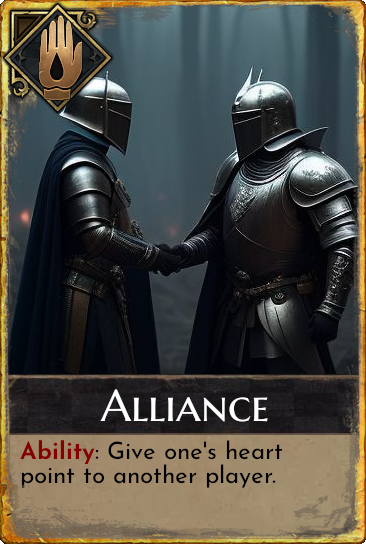
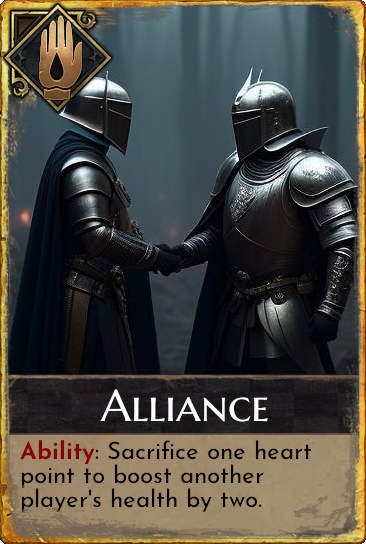
Update text, replaced placeholder images with actual ones

Changed region(s): [[0.2705, 0.8125, 0.8415, 0.9375], [0.0601, 0.9062, 0.2705, 0.9375]]

diff --git a/src/pages/Home.tsx b/src/pages/Home.tsx
@@ -82,17 +82,17 @@ function Home() {
           <div className="d-flex flex-column align-items-center justify-content-center flex-grow-1 container">
           <div className="row justify-content-center">
             <div className="col-lg-3 text-center me-3 my-5">
-              <img src="https://t3.ftcdn.net/jpg/00/32/96/02/360_F_32960287_AMQe7m39khZEt8U5oaI0htudEmSA5qA5.jpg" alt="Pillar Image" width={140} height={140} className="rounded-circle mb-3"/>
+              <img src="./src/assets/images/pillar1.jpg" alt="Pillar Image" width={140} height={140} className="rounded-circle mb-3"/>
               <h2 className="fw-normal mb-3">What</h2>
               <p>{text.pillars.what}</p>
             </div>
             <div className="col-lg-3 text-center me-3 my-5">
-              <img src="https://t3.ftcdn.net/jpg/00/32/96/02/360_F_32960287_AMQe7m39khZEt8U5oaI0htudEmSA5qA5.jpg" alt="Pillar Image" width={140} height={140} className="rounded-circle mb-3"/>
+              <img src="./src/assets/images/pillar2.jpg" alt="Pillar Image" width={140} height={140} className="rounded-circle mb-3"/>
               <h2 className="fw-normal mb-3">How</h2>
               <p>{text.pillars.how}</p>
             </div>
             <div className="col-lg-3 text-center my-5">
-              <img src="https://t3.ftcdn.net/jpg/00/32/96/02/360_F_32960287_AMQe7m39khZEt8U5oaI0htudEmSA5qA5.jpg" alt="Pillar Image" width={140} height={140} className="rounded-circle mb-3"/>
+              <img src="./src/assets/images/pillar3.jpg" alt="Pillar Image" width={140} height={140} className="rounded-circle mb-3"/>
               <h2 className="fw-normal mb-3">Why</h2>
               <p>{text.pillars.why}</p>
             </div>

diff --git a/src/pages/Gallery.tsx b/src/pages/Gallery.tsx
@@ -26,26 +26,6 @@ function Gallery() {
                   <img src={gameboard} className="img-fluid" alt="..."/>
                   <h1>Gameboard</h1>
                 </div>
-                <div className="image-container">
-                  <img src="https://upload.wikimedia.org/wikipedia/commons/5/58/Tokyo_Tower_2023.jpg" className="img-fluid" alt="..."/>
-                  <h1>Text</h1>
-                </div>
-                <div className="image-container">
-                  <img src="https://images.hdqwalls.com/download/the-witcher-3-wild-hunt-4-1024x768.jpg" className="img-fluid" alt="..."/>
-                  <h1>Text</h1>
-                </div>
-                <div className="image-container">
-                  <img src="https://images.hdqwalls.com/download/the-witcher-3-wild-hunt-4-1024x768.jpg" className="img-fluid" alt="..."/>
-                  <h1>Text</h1>
-                </div>
-                <div className="image-container">
-                  <img src="https://images.hdqwalls.com/download/the-witcher-3-wild-hunt-4-1024x768.jpg" className="img-fluid" alt="..."/>
-                  <h1>Text</h1>
-                </div>
-                <div className="image-container">
-                  <img src="https://images.hdqwalls.com/download/the-witcher-3-wild-hunt-4-1024x768.jpg" className="img-fluid" alt="..."/>
-                  <h1>Text</h1>
-                </div>
             </Masonry>
           </div>
         </div>

diff --git a/src/style/index.css b/src/style/index.css
@@ -5,7 +5,7 @@ body {
   font-family: "Josefin Sans", sans-serif !important;
 }
 h1, h2, h3, h4, h5, h6, .navbar {
-  font-family: "Marcellus SC",serif;
+  font-family: "Marcellus SC", serif;
 }
 
 /* General */
@@ -19,7 +19,7 @@ html {
   scroll-padding-top: var(--navbar-height);
 }
 #hero {
-  background: linear-gradient(rgba(0, 0, 0, var(--hero-alpha)), rgba(0, 0, 0, var(--hero-alpha))), url('https://images6.alphacoders.com/451/451408.jpg');
+  background: linear-gradient(rgba(0, 0, 0, var(--hero-alpha)), rgba(0, 0, 0, var(--hero-alpha))), url('./src/assets/images/hero.jpg');
   background-repeat: no-repeat;
   background-size: cover;
 }

diff --git a/src/pages/TradeOffs.tsx b/src/pages/TradeOffs.tsx
@@ -6,7 +6,7 @@ function TradeOffs() {
   return (
     <>
       <Navbar/>
-      <div className="p-5 text-center bg-image text-uppercase position-relative" style={{ backgroundImage: `url('https://i.pinimg.com/originals/bb/9c/f8/bb9cf8ca709add0ad654aaa68a058a64.jpg')`}}>
+      <div className="p-5 text-center bg-image text-uppercase position-relative" style={{ backgroundImage: `url('./src/assets/images/tradeoffs.jpg')`}}>
         <div className="mask position-absolute top-0 start-0 bottom-0 end-0">
           <div className="d-flex justify-content-center align-items-center h-100">
             <div className="text-white">

diff --git a/src/pages/Duration.tsx b/src/pages/Duration.tsx
@@ -6,7 +6,7 @@ function Duration() {
   return (
     <>
       <Navbar/>
-      <div className="p-5 text-center bg-image text-uppercase position-relative" style={{ backgroundImage: `url('https://i.pinimg.com/originals/44/72/7a/44727a2d0646b715a573e71de3ee7867.jpg')`}}>
+      <div className="p-5 text-center bg-image text-uppercase position-relative" style={{ backgroundImage: `url('./src/assets/images/duration.jpg')`}}>
         <div className="mask position-absolute top-0 start-0 bottom-0 end-0">
           <div className="d-flex justify-content-center align-items-center h-100">
             <div className="text-white">

diff --git a/src/pages/Dynamics.tsx b/src/pages/Dynamics.tsx
@@ -6,7 +6,7 @@ function Dynamics() {
   return (
     <>
       <Navbar/>
-      <div className="p-5 text-center bg-image text-uppercase position-relative" style={{ backgroundImage: `url('https://images4.alphacoders.com/600/600976.jpg')`}}>
+      <div className="p-5 text-center bg-image text-uppercase position-relative" style={{ backgroundImage: `url('./src/assets/images/dynamics.png')`}}>
         <div className="mask position-absolute top-0 start-0 bottom-0 end-0">
           <div className="d-flex justify-content-center align-items-center h-100">
             <div className="text-white">
